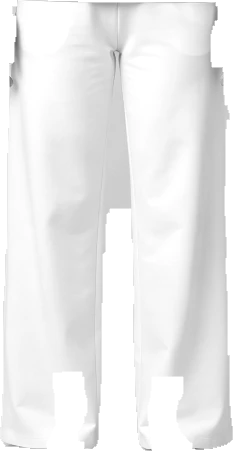
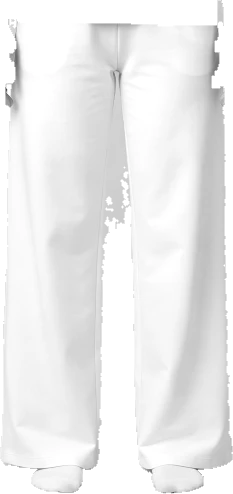
Personage: broeken en rokken opnieuw en strakker uitgeknipt; schoenen vóór de broekspijp
Eigen aanpak voor onderstukken: AI-uitknipsel onder de zoom van het shirt, zonder huid en sokken. Basisshort volledig weggegumd onder een broek.

diff --git a/js/personage.js b/js/personage.js
@@ -11,8 +11,9 @@ const PERSONAGE_CAT = {
   sneakers: 'sneakers', laarzen: 'laarzen', 'nette-schoenen': 'nette-schoenen',
 };
 const PERSONAGE_SLOT = { base: 'tshirt', mid: 'trui', bottom: 'broek', full: 'jurk', shoes: 'sneakers' };
-// Volgorde van tekenen: onderop eerst.
-const PERSONAGE_ORDER = ['shoes', 'bottom', 'full', 'base', 'mid'];
+// Volgorde van tekenen: onderop eerst. Schoenen na de broek: de schoen staat vóór de broekspijp
+// (en zo verdwijnt ook een stukje voet dat in een broeklaag zit).
+const PERSONAGE_ORDER = ['bottom', 'full', 'shoes', 'base', 'mid'];
 
 // Man of vrouw volgt "Kast voor"; bij "alles laten zien" kies je het zelf bij Instellingen.
 const personageGender = () => ['man', 'vrouw'].includes(state.profile.gender) ? state.profile.gender : (state.profile.personage || 'vrouw');
